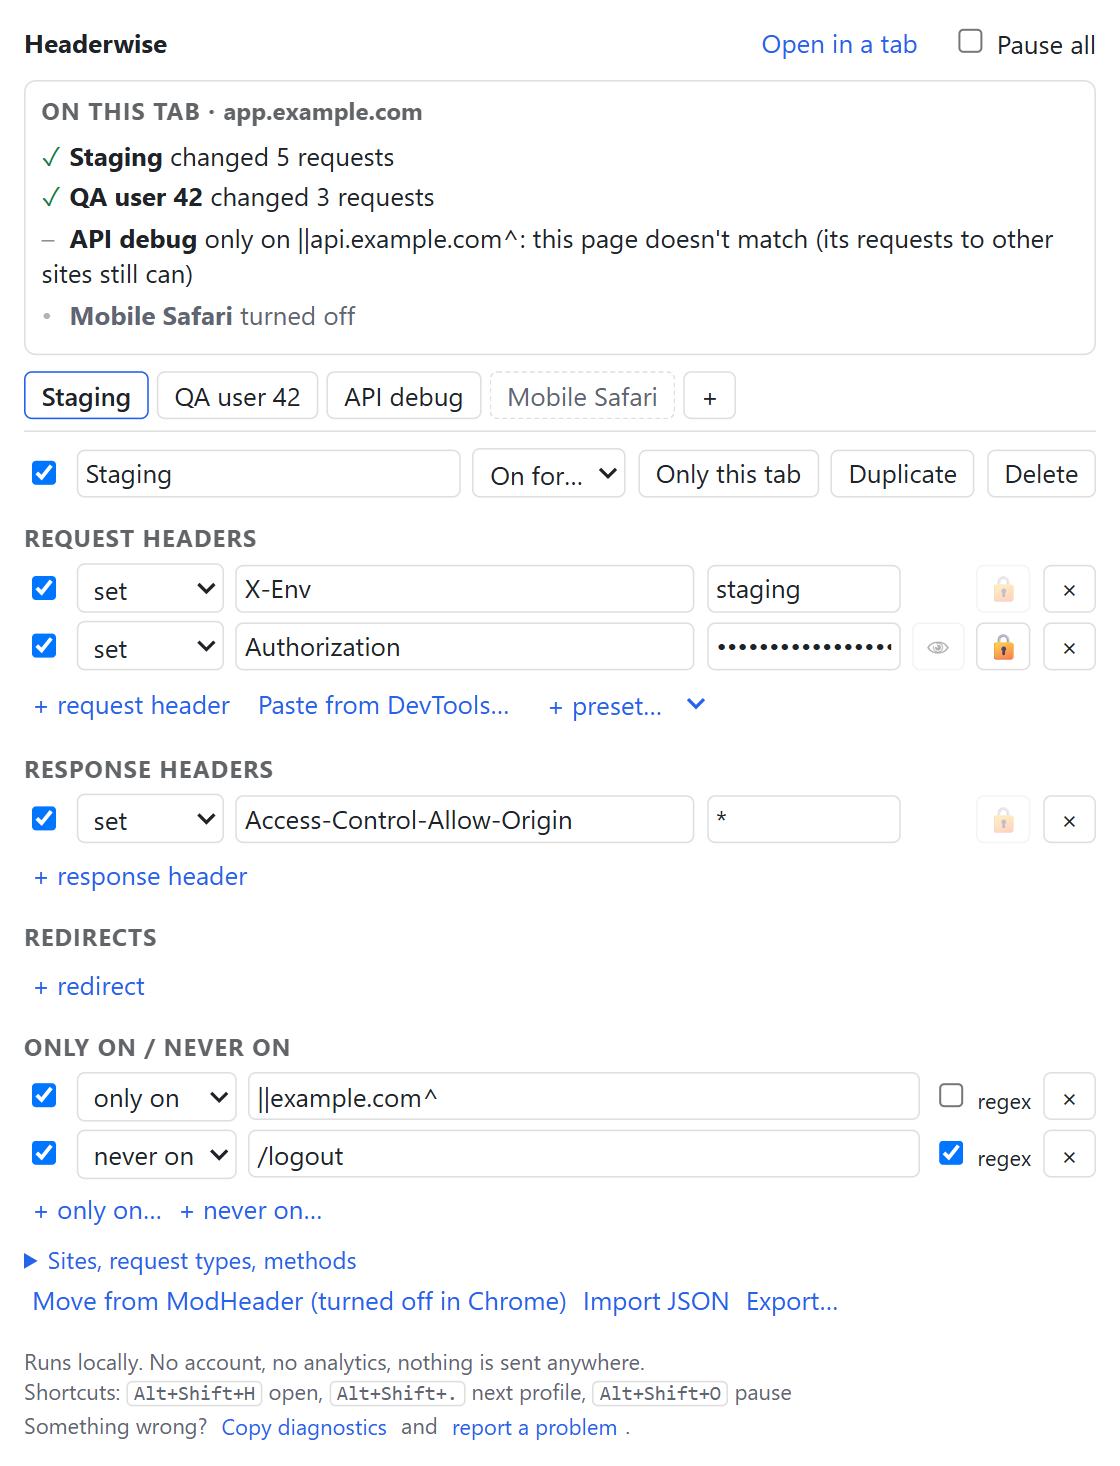
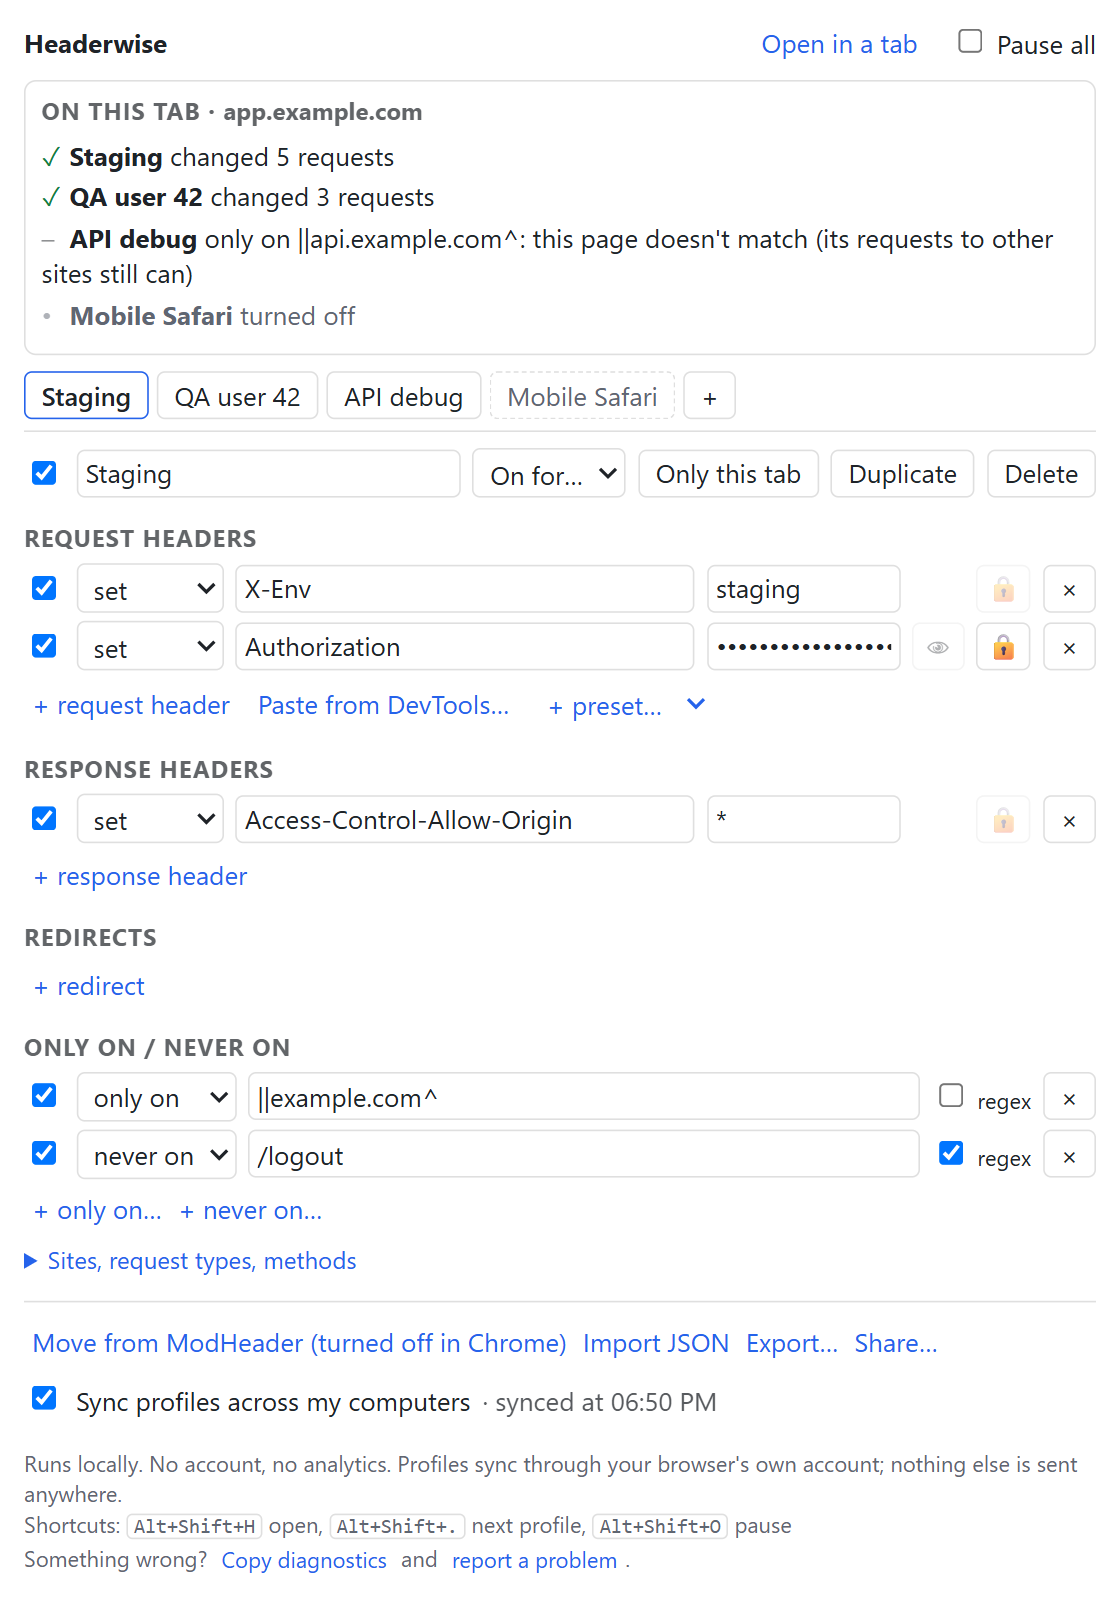
Store listing: CORS in the name and summary, the description leads with what people search for, new screenshots
The name becomes "Headerwise: Modify HTTP Headers & CORS" in every language and
the summary names CORS and Authorization: most installs come from searching
the store, and CORS is among the most searched things there. The description
opens with the tasks, then moving from ModHeader. Screenshots show the
current popup; ModHeader moves to second, and one shows share links and sync.
Version 1.1.1 so the store picks up the new name.

diff --git a/store/listing.md b/store/listing.md
@@ -5,9 +5,9 @@ Everything to paste into the two developer dashboards. Images are in this folder
 
 ## Basics
 
-- **Name** (from the manifest): Headerwise: Modify HTTP Headers
-- **Short description** (from the manifest, 118 of 132 chars):
-  Modify request and response headers per profile. Import your ModHeader profiles. Runs locally, sends nothing anywhere.
+- **Name** (from the manifest): Headerwise: Modify HTTP Headers & CORS
+- **Short description** (from the manifest, 130 of 132 chars):
+  Modify HTTP request & response headers, fix CORS, set Authorization. Imports ModHeader profiles. Free, open source, sends nothing.
 - **Category:** Developer Tools
 - **Language:** English
 - **Price:** free
@@ -18,7 +18,9 @@ Everything to paste into the two developer dashboards. Images are in this folder
 ## Detailed description
 
 ```
-Headerwise changes HTTP request and response headers in Chrome and Edge. Set, append or remove headers, group them in profiles, and turn them on only where you need them.
+Modify HTTP request and response headers in Chrome and Edge: add, change or remove any header, fix CORS errors in local development, send an Authorization token or a staging header only to your own sites, and redirect API calls. Group headers in profiles and switch them on only where you need them.
+
+Moving from ModHeader? Headerwise imports your ModHeader profiles, even after Chrome turned ModHeader off.
 
 It runs entirely in your browser. There is no account and no analytics, and the extension cannot send anything anywhere: its manifest forbids network requests, so the browser itself blocks them. Header changes are applied by the browser through declarativeNetRequest, so Headerwise never reads the pages you visit.
 
@@ -83,7 +85,7 @@ Modify HTTP request and response headers in the browser, organized in profiles t
 
 | File | Use |
 |---|---|
-| `screenshots/1-headers.png` … `5-filters.png` | Screenshots, 1280×800, in this order |
+| `screenshots/1-headers.png` … `5-paste.png` | Screenshots, 1280×800, in this order |
 | `promo-small-440x280.png` | Chrome small promo tile (required) |
 | `promo-marquee-1400x560.png` | Chrome marquee (optional, used if featured) |
 | `logo-300.png` | Edge store logo |
